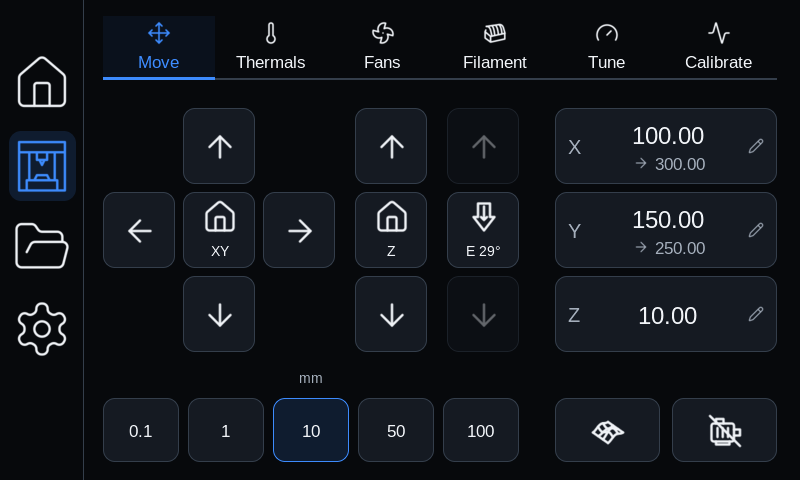
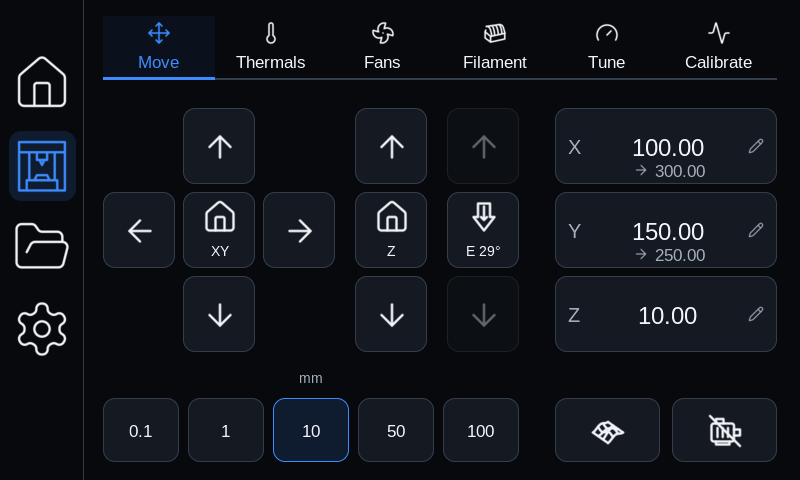
Keep current coordinates fixed while motion target appears

Changed region(s): [[0.7812, 0.4375, 0.9062, 0.5625], [0.7812, 0.25, 0.9062, 0.375]]

diff --git a/src/views.c b/src/views.c
@@ -423,15 +423,15 @@ void views_refresh(void) {
             moving = moving && homed;
             snprintf(value, sizeof(value), "%.2f", cJSON_IsNumber(p) ? p->valuedouble : 0);
             label_update(app.positions[i], homed ? value : "—");
-            lv_obj_align(app.positions[i], LV_ALIGN_CENTER, 2, moving ? -12 : 0);
+            lv_obj_align(app.positions[i], LV_ALIGN_CENTER, 2, 0);
             if (moving) {
                 snprintf(value, sizeof(value), "%.2f", target->valuedouble);
                 label_update(app.position_targets[i], value);
                 lv_point_t size;
                 lv_txt_get_size(&size, value, &font_ui_17, 0, 0, 146, LV_TEXT_FLAG_NONE);
                 int x = 113 - (size.x + 22) / 2;
-                lv_obj_set_pos(app.position_arrows[i], x, 44 + (size.y - 16) / 2);
-                lv_obj_set_pos(app.position_targets[i], x + 22, 44);
+                lv_obj_set_pos(app.position_arrows[i], x, 51 + (size.y - 16) / 2);
+                lv_obj_set_pos(app.position_targets[i], x + 22, 51);
                 lv_obj_set_width(app.position_targets[i], size.x);
                 lv_obj_clear_flag(app.position_arrows[i], LV_OBJ_FLAG_HIDDEN);
                 lv_obj_clear_flag(app.position_targets[i], LV_OBJ_FLAG_HIDDEN);
